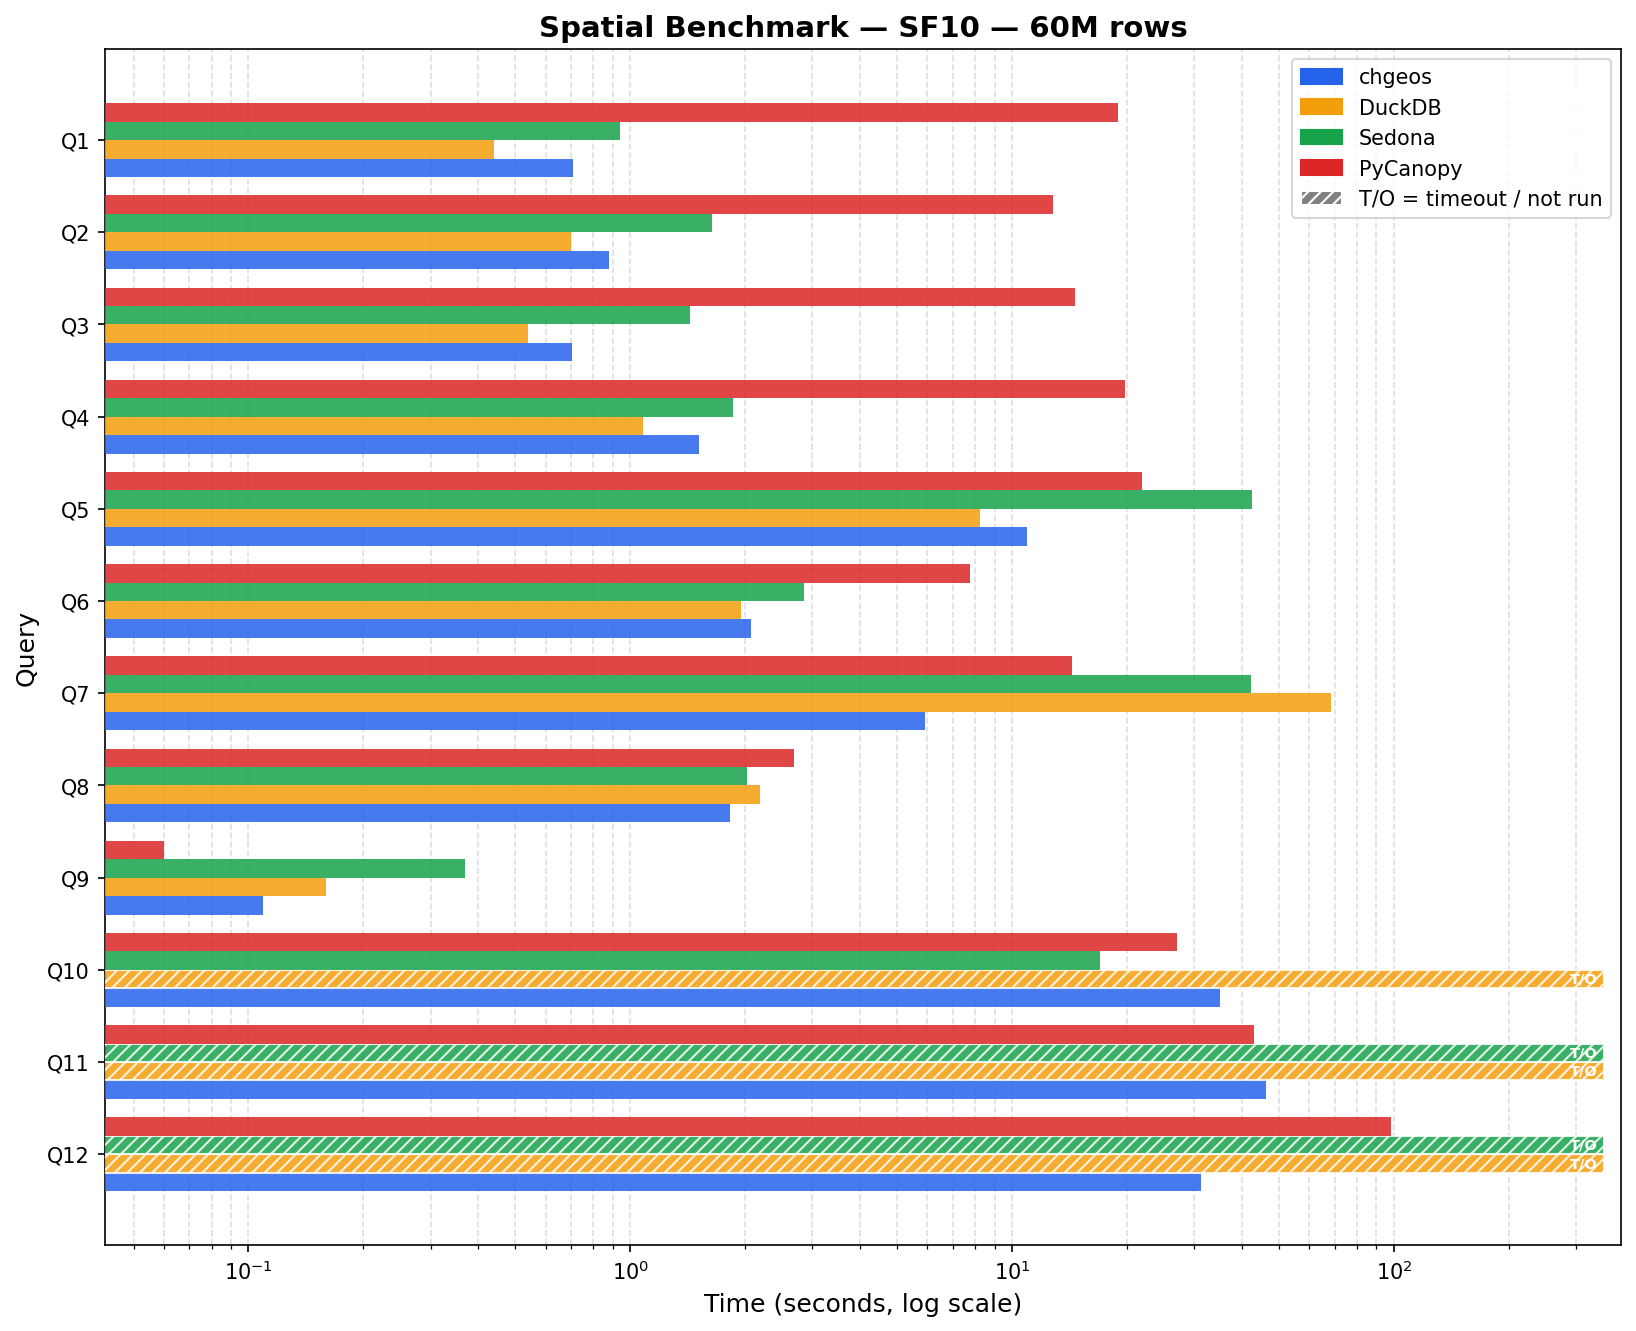
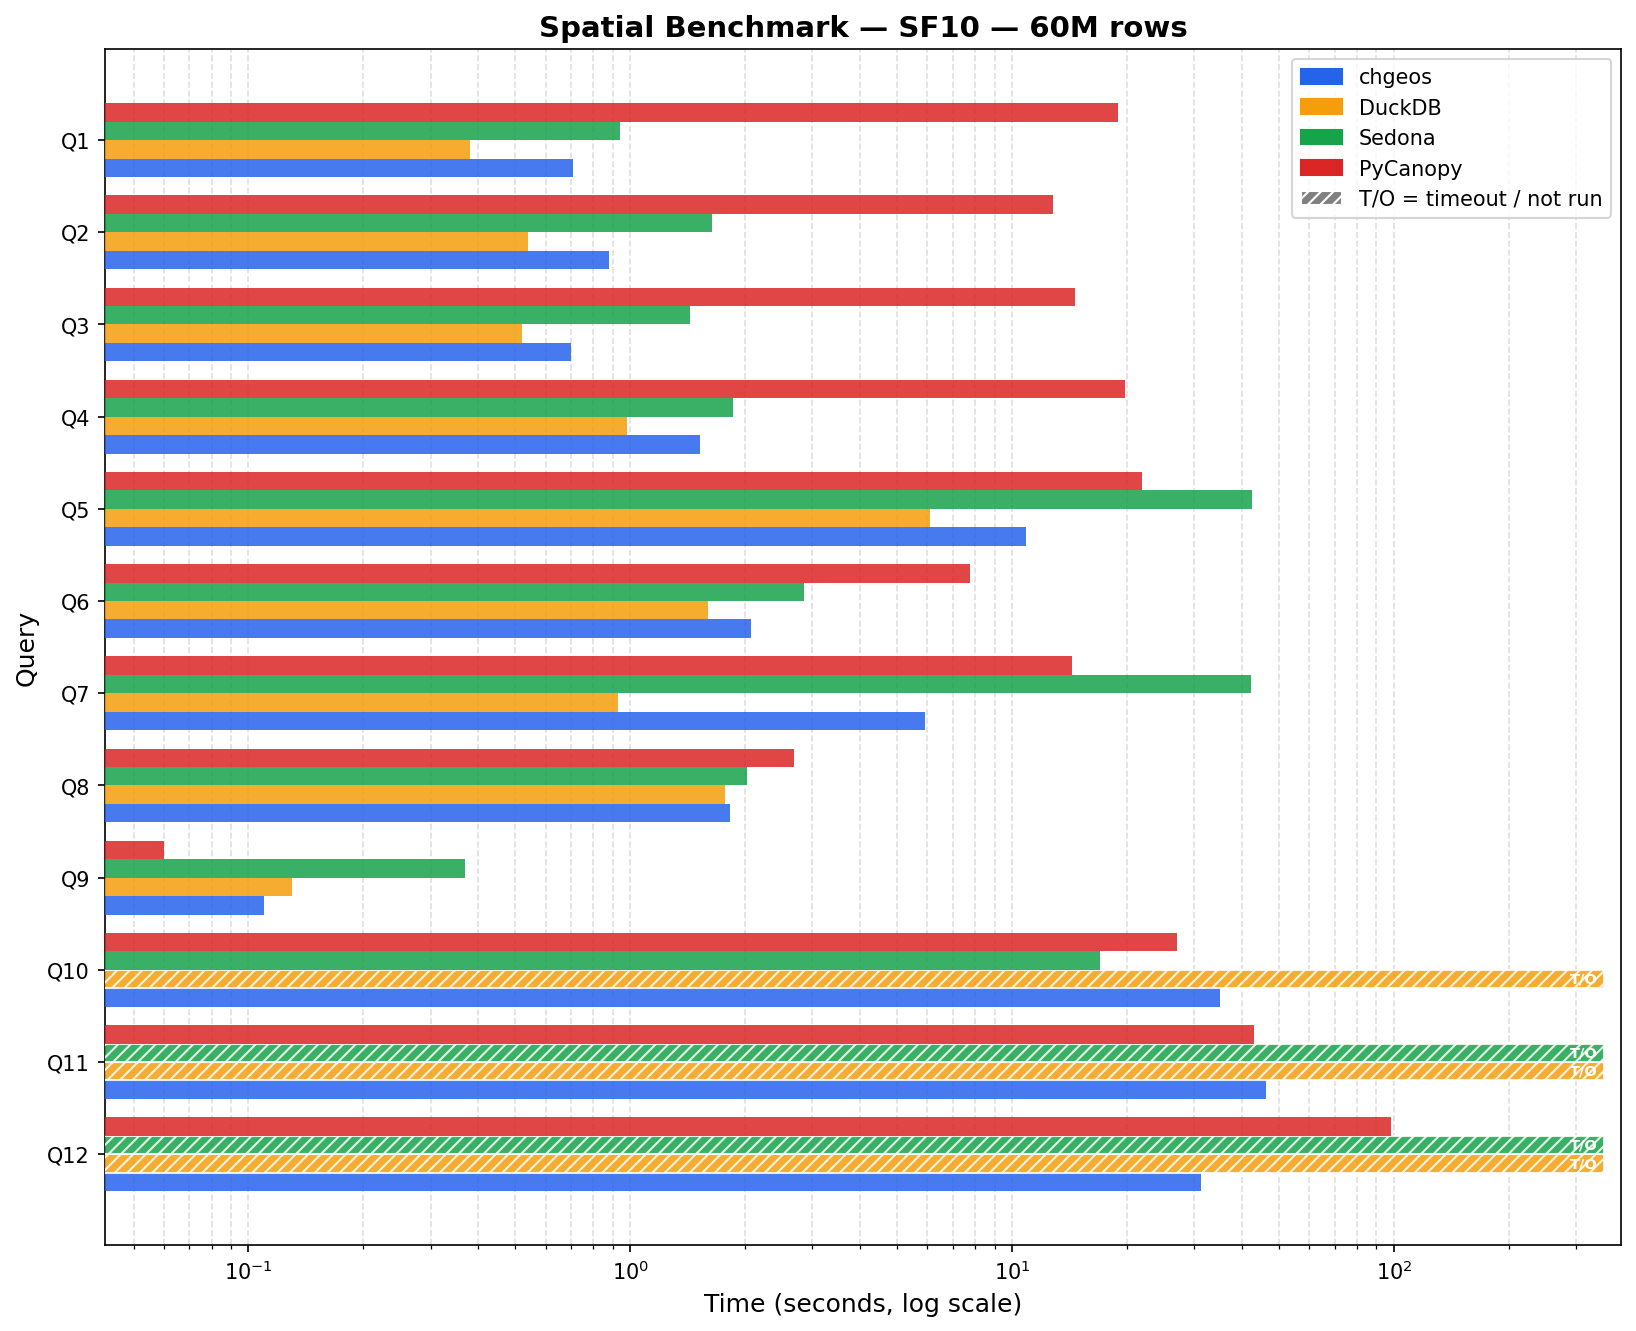
Update DuckDB columns to 1.5.5 and round times
Re-measured DuckDB at both scale factors with 1.5.5, which is much faster
than the 1.5.2 numbers this file carried: Q7 6.53 -> 0.26 s at SF1 and
68.31 -> 0.93 s at SF10, and SF1 Q10 completes at 99.97 s instead of
timing out. Q5 and Q7 move to DuckDB at SF1; Q7 moves to DuckDB and Q8
becomes a tie at SF10.

All timings now report two decimals. That makes SF1 Q9 a three-way
0.03 s tie rather than a chgeos win, since the gap it used to show
(0.026 s) is below what these measurements resolve.

Sedona and PyCanopy columns are unchanged and now the oldest in the file.

diff --git a/BENCHMARK.md b/BENCHMARK.md
@@ -7,7 +7,7 @@ Apache Sedona (SedonaDB) and PyCanopy on the spatial benchmark suite.
 **Dataset:** synthetic taxi trip data from https://github.com/apache/sedona-spatialbench — SF1 = 6M trips, SF10 = 60M trips  
 **Timeout:** 120 s (all engines)  
 **chgeos version:** 2026-08-06  
-**DuckDB version:** 1.5.2  
+**DuckDB version:** 1.5.5  
 **Sedona version:** 0.3.0  
 **PyCanopy:** measured 2026-07-29  
 **Runs:** 5 per query (average reported)  
@@ -19,20 +19,20 @@ Apache Sedona (SedonaDB) and PyCanopy on the spatial benchmark suite.
 
 | Query | Description                        | chgeos   | DuckDB   | Sedona  | PyCanopy | Winner   |
 |-------|------------------------------------|----------|----------|---------|----------|----------|
-| Q1    | Point-in-radius filter             | 0.084 s  | 0.11 s   | 0.43 s  | 0.81 s   | chgeos   |
-| Q2    | Count trips in county polygon      | 0.087 s  | 0.20 s   | 1.13 s  | 1.68 s   | chgeos   |
-| Q3    | Monthly stats in bbox+buffer       | 0.083 s  | 0.16 s   | 0.50 s  | 0.64 s   | chgeos   |
-| Q4    | Zone distribution (top-1000 tips)  | 0.661 s  | 0.67 s   | 0.91 s  | 4.78 s   | Tie      |
-| Q5    | Convex hull area per customer/month| 0.841 s  | 0.82 s   | 2.00 s  | 1.16 s   | Tie      |
-| Q6    | Zone stats for bbox-intersect zones| 0.857 s  | 0.97 s   | 0.87 s  | 2.88 s   | Tie      |
-| Q7    | Detour ratio (all trips)           | 0.626 s  | 6.53 s   | 2.35 s  | 1.22 s   | chgeos   |
-| Q8    | Nearby pickups per building        | 0.164 s  | 0.46 s   | 0.35 s  | 0.25 s   | chgeos   |
-| Q9    | Building conflation via IoU        | 0.026 s  | 0.03 s   | 0.24 s  | 0.03 s   | chgeos   |
-| Q10   | Zone avg duration/distance         | 4.537 s  | TIMEOUT  | 4.87 s  | 5.70 s   | chgeos   |
-| Q11   | Cross-zone trip count              | 6.271 s  | TIMEOUT  | 7.82 s  | 5.84 s   | PyCanopy |
-| Q12   | 5 nearest buildings per trip (kNN) | 2.221 s  | TIMEOUT  | 18.07 s | 5.71 s   | chgeos   |
+| Q1    | Point-in-radius filter             | 0.08 s   | 0.15 s   | 0.43 s  | 0.81 s   | chgeos   |
+| Q2    | Count trips in county polygon      | 0.09 s   | 0.22 s   | 1.13 s  | 1.68 s   | chgeos   |
+| Q3    | Monthly stats in bbox+buffer       | 0.08 s   | 0.17 s   | 0.50 s  | 0.64 s   | chgeos   |
+| Q4    | Zone distribution (top-1000 tips)  | 0.66 s   | 0.94 s   | 0.91 s  | 4.78 s   | chgeos   |
+| Q5    | Convex hull area per customer/month| 0.84 s   | 0.69 s   | 2.00 s  | 1.16 s   | DuckDB   |
+| Q6    | Zone stats for bbox-intersect zones| 0.86 s   | 0.82 s   | 0.87 s  | 2.88 s   | Tie      |
+| Q7    | Detour ratio (all trips)           | 0.63 s   | 0.26 s   | 2.35 s  | 1.22 s   | DuckDB   |
+| Q8    | Nearby pickups per building        | 0.16 s   | 0.44 s   | 0.35 s  | 0.25 s   | chgeos   |
+| Q9    | Building conflation via IoU        | 0.03 s   | 0.03 s   | 0.24 s  | 0.03 s   | Tie      |
+| Q10   | Zone avg duration/distance         | 4.54 s   | 99.97 s  | 4.87 s  | 5.70 s   | chgeos   |
+| Q11   | Cross-zone trip count              | 6.27 s   | TIMEOUT  | 7.82 s  | 5.84 s   | PyCanopy |
+| Q12   | 5 nearest buildings per trip (kNN) | 2.22 s   | TIMEOUT  | 18.07 s | 5.71 s   | chgeos   |
 
-**SF1 wins — chgeos: 8, DuckDB: 0, Sedona: 0, PyCanopy: 1, Ties: 3**
+**SF1 wins — chgeos: 7, DuckDB: 2, Sedona: 0, PyCanopy: 1, Ties: 2**
 
 ![SF1 benchmark](sf1.png)
 
@@ -42,24 +42,27 @@ Apache Sedona (SedonaDB) and PyCanopy on the spatial benchmark suite.
 
 | Query | Description                        | chgeos    | DuckDB   | Sedona   | PyCanopy | Winner   |
 |-------|------------------------------------|-----------|----------|----------|----------|----------|
-| Q1    | Point-in-radius filter             | 0.710 s   | 0.44 s   | 0.94 s   | 18.93 s  | DuckDB   |
-| Q2    | Count trips in county polygon      | 0.879 s   | 0.70 s   | 1.64 s   | 12.81 s  | DuckDB   |
-| Q3    | Monthly stats in bbox+buffer       | 0.703 s   | 0.54 s   | 1.43 s   | 14.59 s  | DuckDB   |
-| Q4    | Zone distribution (top-1000 tips)  | 1.516 s   | 1.08 s   | 1.86 s   | 19.80 s  | DuckDB   |
-| Q5    | Convex hull area per customer/month| 10.913 s  | 8.24 s   | 42.43 s  | 21.93 s  | DuckDB   |
-| Q6    | Zone stats for bbox-intersect zones| 2.066 s   | 1.95 s   | 2.86 s   | 7.74 s   | DuckDB   |
-| Q7    | Detour ratio (all trips)           | 5.908 s   | 68.31 s  | 42.28 s  | 14.39 s  | chgeos   |
-| Q8    | Nearby pickups per building        | 1.826 s   | 2.19 s   | 2.02 s   | 2.69 s   | chgeos   |
-| Q9    | Building conflation via IoU        | 0.109 s   | 0.16 s   | 0.37 s   | 0.06 s   | PyCanopy |
-| Q10   | Zone avg duration/distance         | 35.115 s  | TIMEOUT  | 17.02 s  | 27.05 s  | Sedona   |
-| Q11   | Cross-zone trip count              | 46.128 s  | TIMEOUT  | TIMEOUT  | 42.97 s  | PyCanopy |
-| Q12   | 5 nearest buildings per trip (kNN) | 31.166 s  | TIMEOUT  | TIMEOUT  | 98.60 s  | chgeos   |
+| Q1    | Point-in-radius filter             | 0.71 s    | 0.38 s   | 0.94 s   | 18.93 s  | DuckDB   |
+| Q2    | Count trips in county polygon      | 0.88 s    | 0.54 s   | 1.64 s   | 12.81 s  | DuckDB   |
+| Q3    | Monthly stats in bbox+buffer       | 0.70 s    | 0.52 s   | 1.43 s   | 14.59 s  | DuckDB   |
+| Q4    | Zone distribution (top-1000 tips)  | 1.52 s    | 0.98 s   | 1.86 s   | 19.80 s  | DuckDB   |
+| Q5    | Convex hull area per customer/month| 10.91 s   | 6.11 s   | 42.43 s  | 21.93 s  | DuckDB   |
+| Q6    | Zone stats for bbox-intersect zones| 2.07 s    | 1.60 s   | 2.86 s   | 7.74 s   | DuckDB   |
+| Q7    | Detour ratio (all trips)           | 5.91 s    | 0.93 s   | 42.28 s  | 14.39 s  | DuckDB   |
+| Q8    | Nearby pickups per building        | 1.83 s    | 1.77 s   | 2.02 s   | 2.69 s   | Tie      |
+| Q9    | Building conflation via IoU        | 0.11 s    | 0.13 s   | 0.37 s   | 0.06 s   | PyCanopy |
+| Q10   | Zone avg duration/distance         | 35.12 s   | TIMEOUT  | 17.02 s  | 27.05 s  | Sedona   |
+| Q11   | Cross-zone trip count              | 46.13 s   | TIMEOUT  | TIMEOUT  | 42.97 s  | PyCanopy |
+| Q12   | 5 nearest buildings per trip (kNN) | 31.17 s   | TIMEOUT  | TIMEOUT  | 98.60 s  | chgeos   |
 
-**SF10 wins — chgeos: 3, DuckDB: 6, Sedona: 1, PyCanopy: 2, Ties: 0**
+**SF10 wins — chgeos: 1, DuckDB: 7, Sedona: 1, PyCanopy: 2, Ties: 1**
 
 Both chgeos columns were re-measured on 2026-08-06 on an idle machine, and every query
 was checked against the spatialbench reference answers first (SF1 and SF10 both 12/12).
-Competitor columns are from 2026-05-06 (DuckDB, Sedona) and 2026-07-29 (PyCanopy).
+Both DuckDB columns were re-measured on 2026-08-06 with DuckDB 1.5.5, which is far
+faster than the 1.5.2 numbers this file used to carry (SF10 Q7 68.31 s → 0.93 s,
+SF1 Q7 6.53 s → 0.26 s, SF1 Q10 TIMEOUT → 99.97 s). Sedona is from 2026-05-06 and
+PyCanopy from 2026-07-29, and neither has been re-measured since.
 Q1–Q4 are Parquet-I/O bound and drift ±25% with machine state, so treat the
 sub-2-second SF10 rows as indicative, not as a ranking.
 
@@ -74,20 +77,26 @@ hint is required to keep the WASM convex hull running on parallel threads before
 ORDER BY merge. Without it, ClickHouse defers the function to the single-threaded
 post-sort stage, causing ~7× slowdown. Q5 also needs `max_bytes_ratio_before_external_group_by=0`
 at SF10: it accumulates ~21 GiB across 3.1M groups, and the default ratio spills to disk at
-0.5 × `max_server_memory_usage`, costing ~3.5 s. DuckDB leads at SF10 (8.24 s vs chgeos
-10.9 s); PyCanopy is 22 s and Sedona 4× slower (42 s).
+0.5 × `max_server_memory_usage`, costing ~3.5 s. DuckDB leads at both scales (0.69 s vs
+chgeos 0.84 s at SF1, 6.11 s vs 10.9 s at SF10); PyCanopy is 22 s at SF10 and Sedona 4×
+slower (42 s).
 
 **Q7 (detour ratio):** Scans all rows computing `st_length(st_makeline(...))` with no
 spatial join. WasmChainFusionPass fuses `st_makeline → st_length` into a single WASM
-call, eliminating the intermediate WKB round-trip. chgeos leads at both scales by a wide
-margin — SF10 5.9 s against DuckDB 68 s, Sedona 42 s and PyCanopy 14.4 s. The earlier
-figures for this query (1.245 s at SF1, 11.4 s at SF10) were measured on a busy machine;
-the numbers above come from an idle one and are roughly 2× faster.
+call, eliminating the intermediate WKB round-trip. That is enough to beat Sedona (2.35 s /
+42.3 s) and PyCanopy (1.22 s / 14.4 s) at both scales, but DuckDB 1.5.5 wins the query
+outright — 0.26 s vs 0.63 s at SF1 and 0.93 s vs 5.9 s at SF10. DuckDB 1.5.2 needed
+6.53 s / 68.3 s here, so the swing is a DuckDB improvement of 25× / 73×, not a chgeos
+regression: the chgeos figures are unchanged from the same build. This is the largest
+single gap against chgeos in the suite and worth profiling. The earlier chgeos figures
+(1.25 s at SF1, 11.40 s at SF10) were measured on a busy machine; the numbers above come
+from an idle one and are roughly 2× faster.
 
 **Q9 (building IoU):** Self-join of ~20K buildings. SpatialRTreeJoin evaluates
 non-spatial ON conditions (e.g. `b1.id < b2.id`) as a pre-filter before the spatial
-predicate, cutting candidate pairs dramatically. chgeos leads DuckDB and Sedona at both
-scales, but PyCanopy is faster at SF10 (0.06 s vs 0.109 s).
+predicate, cutting candidate pairs dramatically. At SF1 chgeos, DuckDB and PyCanopy all
+land at 0.03 s, which is below the resolution of these measurements — scored as a tie.
+At SF10 chgeos beats DuckDB and Sedona but PyCanopy is faster (0.06 s vs 0.11 s).
 
 **Q10 at SF10:** Sedona wins (17 s vs chgeos 35 s and PyCanopy 27 s, DuckDB TIMEOUT).
 Sedona's DataFusion task-parallel build/probe model handles the large trip build side
@@ -104,5 +113,5 @@ then refines the surviving candidates to an exact point-to-geometry distance. Th
 alone reports centroid distance, which is not what `ST_Distance` means — before the
 refinement landed, Q12 disagreed with the reference answers. Refinement reads coordinates
 flattened once at index build, so it needs no GEOS parse per row, and Q12 got
-*faster*: 10.9 s → 2.4 s at SF1, 103.8 s → 31.2 s at SF10. chgeos now leads the query at
+*faster*: 10.9 s → 2.2 s at SF1, 103.8 s → 31.2 s at SF10. chgeos now leads the query at
 both scales; DuckDB and Sedona still time out at SF10, and PyCanopy is 5.7 s / 98.6 s.
